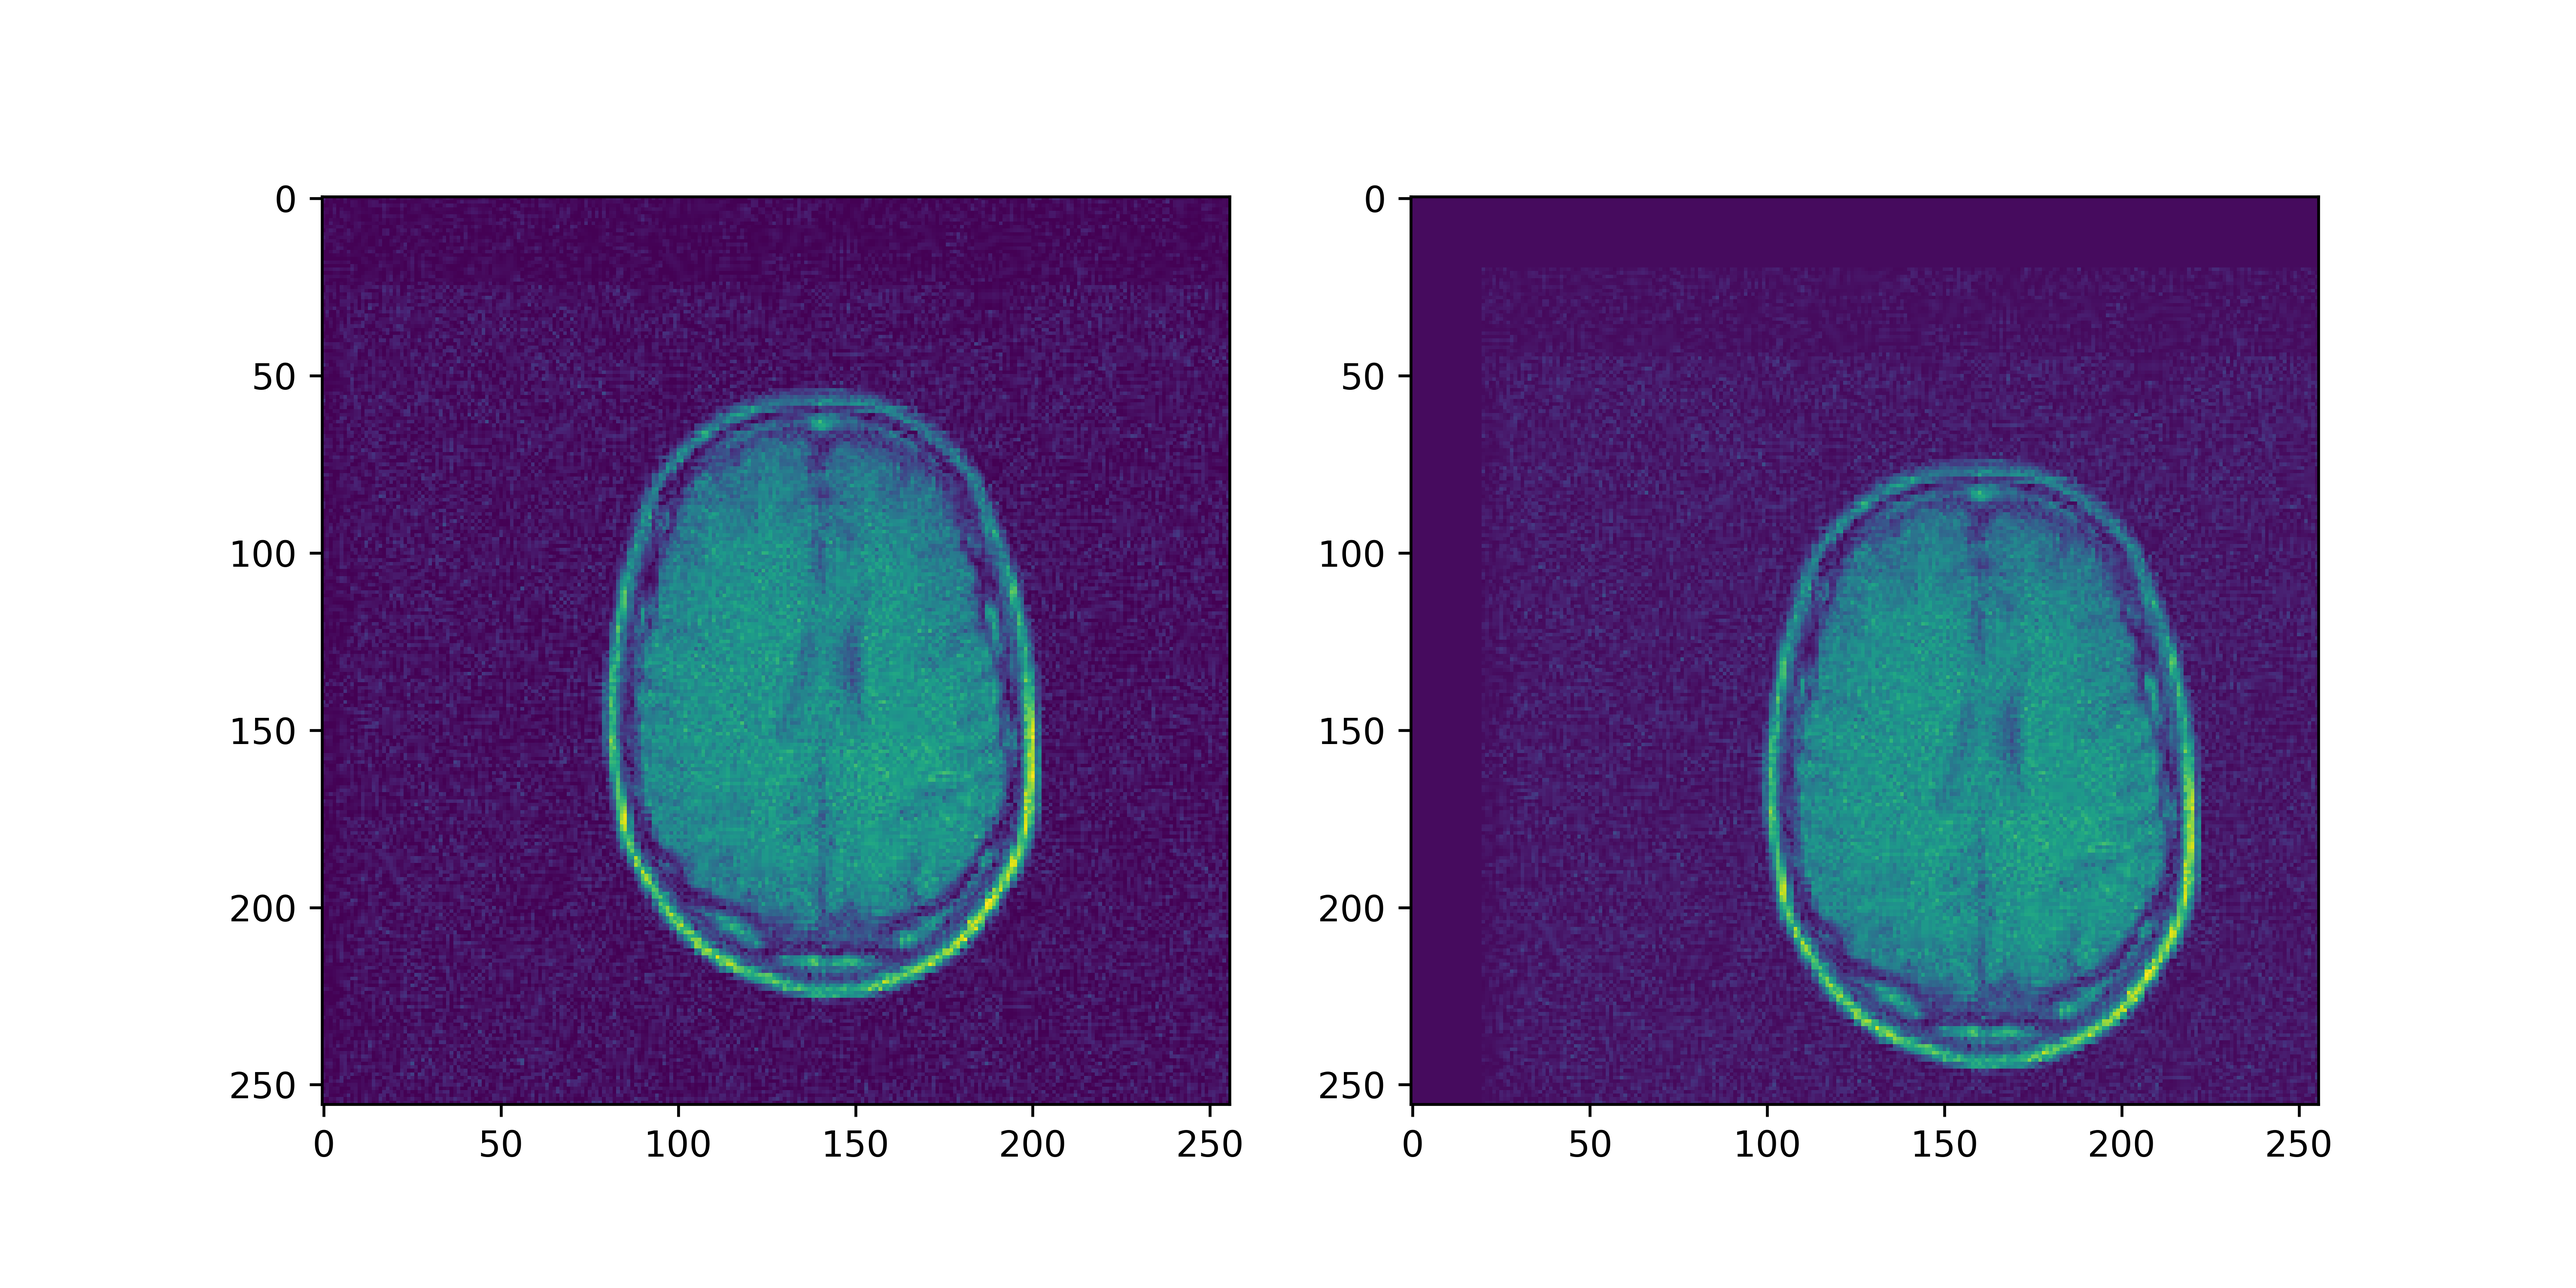
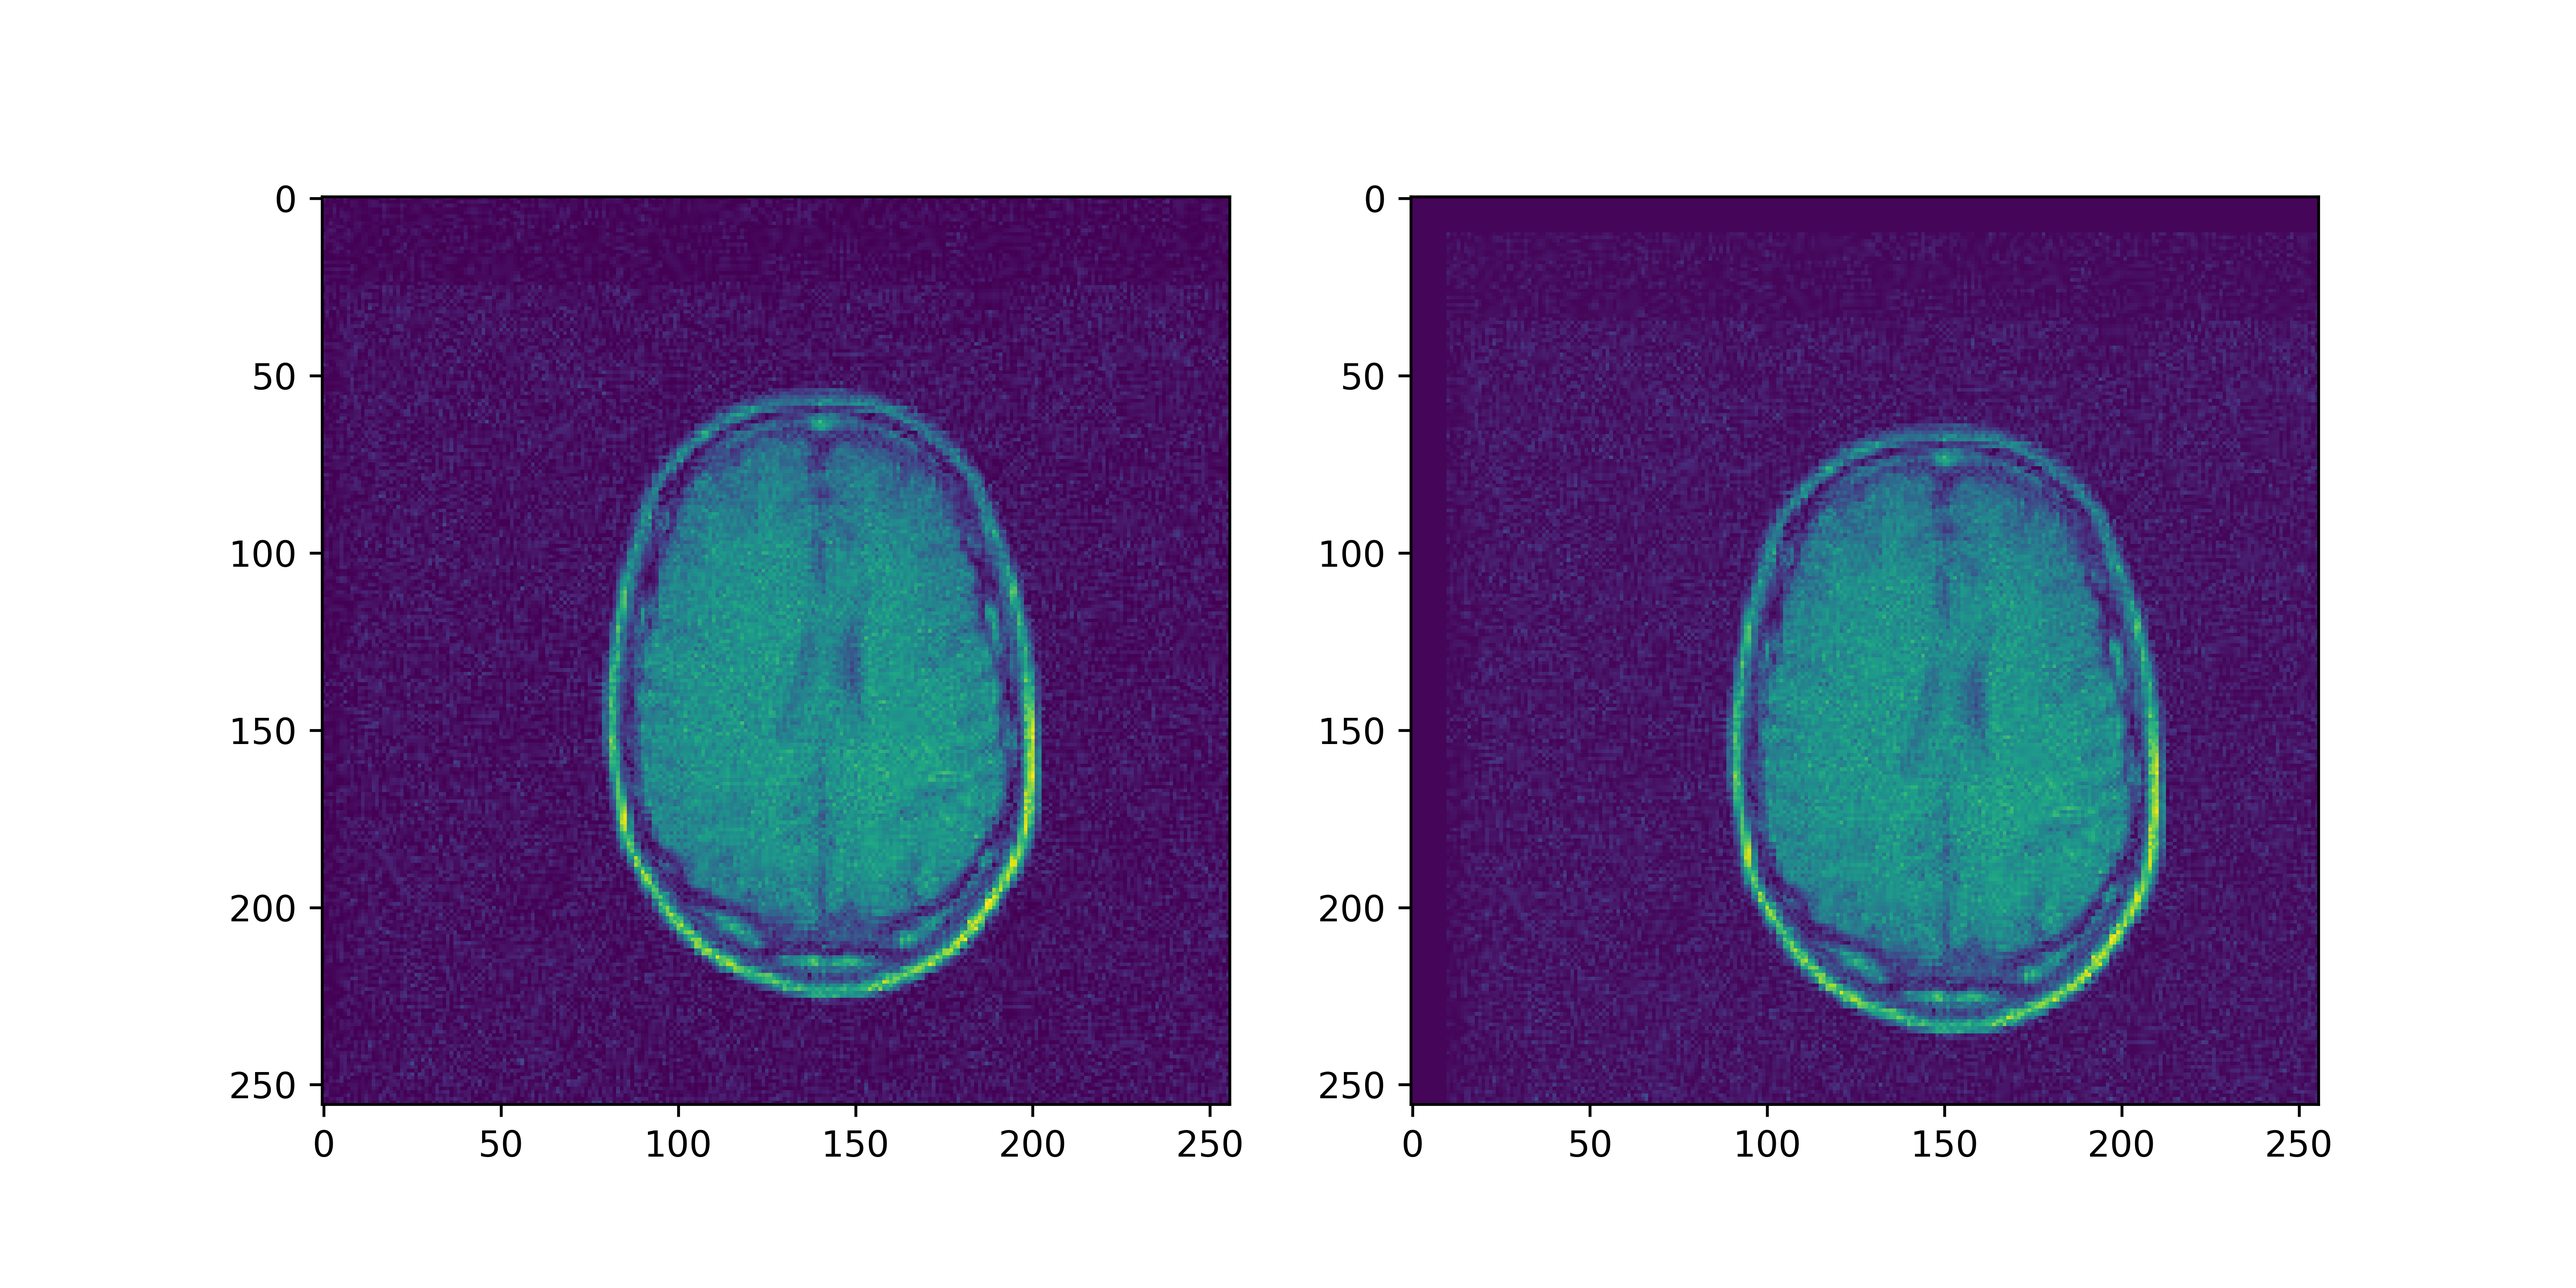
SSD minimization done

Changed region(s): [[0.5922, 0.248, 0.9038, 0.868]]

diff --git a/main.py b/main.py
@@ -413,8 +413,41 @@ if __name__ == "__main__":
 
     # ---------------------------- Part 4 - Simple 2D Registration  ---------------------------- #
     # -------- Section 1 - Translation
-    z_new = translation(MRI_images[1], 0, 0)
+    z_new = translation(MRI_images[1], 10, 10)
 
     save_path_translation = "output/registration/translation.png"
     plot_translation(MRI_images[1], z_new, save_path_translation)
     # -------- Section 2 - 2D registration with translation
+
+    reference = MRI_images[0]
+
+    for image_index, target in enumerate(MRI_images[1:]):
+        # Step locations
+        pos_left_down = (-1, -1)
+        pos_left_up = (-1, 1)
+        pos_right_down = (1, -1)
+        pos_right_up = (1, 1)
+        pos = (pos_left_down, pos_left_up, pos_right_down, pos_right_up)
+        total_step = 1000
+        # Calculating init SSD
+        ssd_hist = [np.float64(SSD(reference, target))]
+        multiplier = 1
+        for step in range(total_step):
+            ssd_local = []
+            for p in pos:
+                target_test = translation(target, 0 + p[0], 0 + p[1])
+                ssd_local.append(SSD(reference, target_test))
+
+            direction_index = np.argmin(ssd_local)
+            ssd_hist.append(ssd_local[direction_index])
+            target = translation(target, 0 + pos[direction_index][0], 0 + pos[direction_index][1])
+            if step != 0 and step % 20 == 0:
+                if ssd_hist[-1] == ssd_hist[-3] or ssd_hist[-2] == ssd_hist[-4]:
+                    if multiplier > 0.1:
+                        multiplier *= 0.5
+                        pos *= multiplier
+        save_path_compare_trans = f"output/registration/MRI1_MRI{2+image_index}_{step}step.png"
+        plot_translation(reference, target, save_path_compare_trans)
+
+
+
